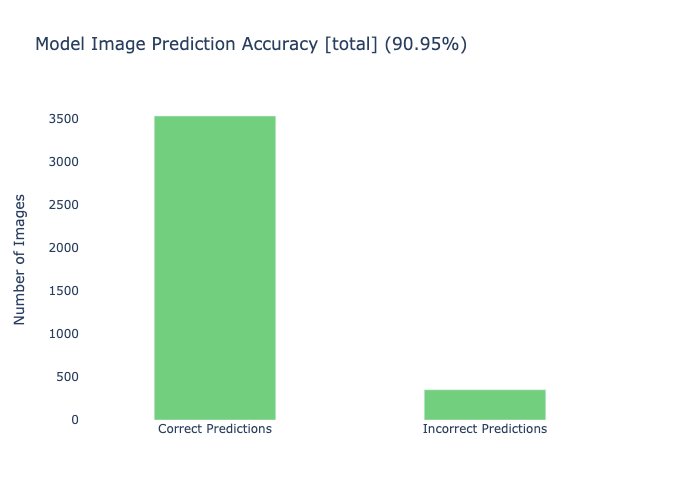
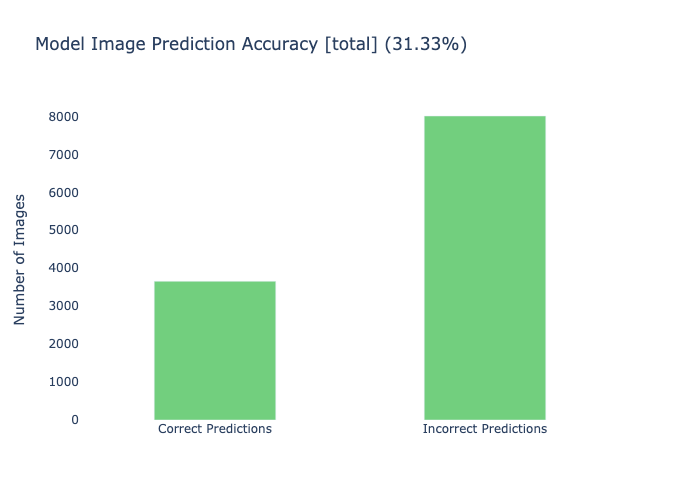
test

diff --git a/vizualization_tools/model accuracy_validation.py b/vizualization_tools/model accuracy_validation.py
@@ -2,12 +2,14 @@ import plotly.express as px
 import plotly.io as pio
 
 # Number of total images
-total_images = 3889
+total_images = 11667
+# total_images = 3555
 
 # Number of correctly predicted images
 # correct_predictions = 955
 # correct_predictions = 3
-correct_predictions = 3537
+# correct_predictions = 3100 + 2500 + 2100
+correct_predictions = 1500 + 1200 + 955
 
 # Calculate the accuracy percentage
 accuracy_percentage = (correct_predictions / total_images) * 100
